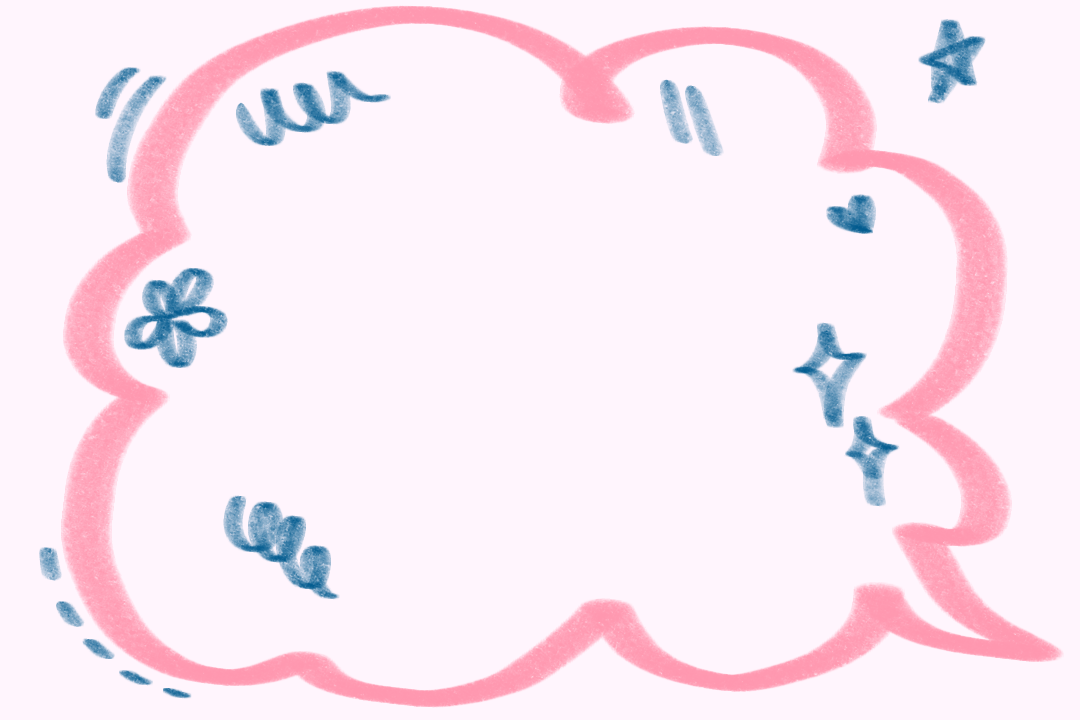
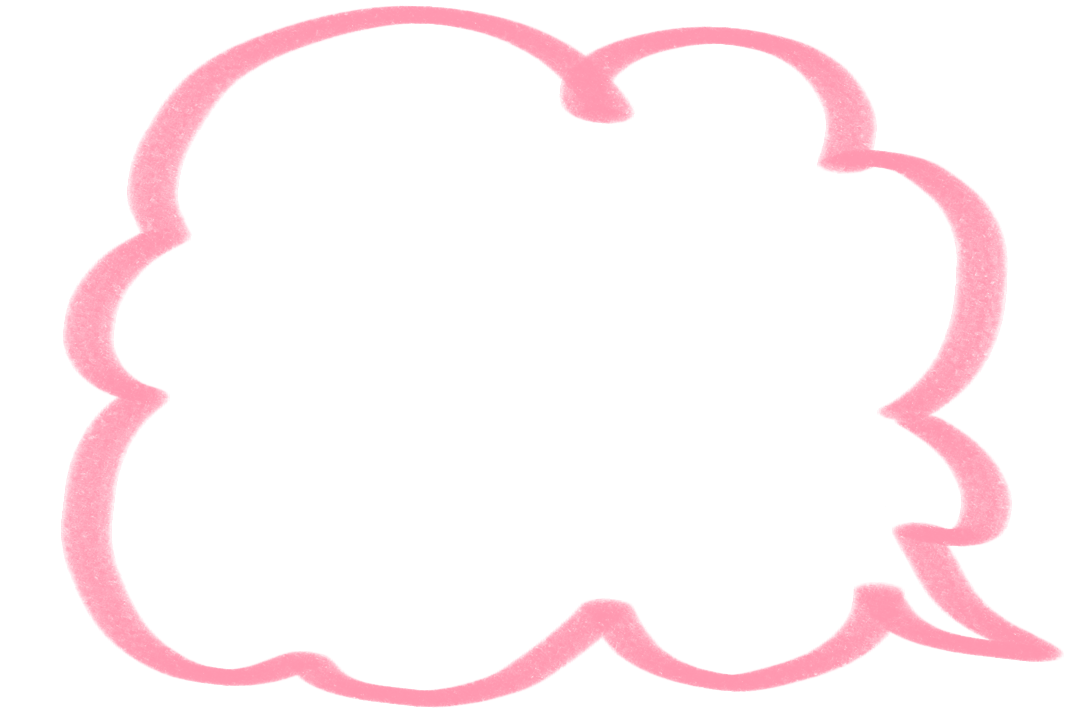
fourth commit
edit 4 files

diff --git a/src/index.css b/src/index.css
@@ -2,41 +2,93 @@
 
 /* styles */
 * {
-    margin: 0;
-    font-family: "Ruda";
-    color: #022e57;
-    background: #FFF5FD;
+  margin: 0;
+  font-family: "Ruda";
+  color: #022e57;
+  background: #FFF5FD;
+}
+body, html {
+  margin:0;
+  padding:0;
+  line-height: 1.5em;
+  height: 100%;
+  width: 100%;
+  box-sizing: border-box;
+}
+p {
+  display: block;
+  margin-block-start: 1em;
+  margin-block-end: 1em;
+  margin-inline-start: 0px;
+  margin-inline-end: 0px;
+  background-color: transparent;
+}
+.root {
+  height: inherit;
+}
+.app {
+  height: 100%;
+}
+.content {
+  margin: 40px auto;
+  height: 100%;
+  padding: 5px;
+}
+.content p {
+  margin: 10px;
+}
+.content a {
+  margin: 10px;
+}
+.bubble {
+  margin: 0;
+  padding-top: calc(15rem + 55px);
+  padding-bottom: 15rem;
+  position: relative;
+  background-image: url('bg.png');
+  background-repeat: no-repeat;
+  background-position: center center;
+  background-attachment: scroll;
+  background-size: cover;
 }
 .navbar {
-    padding: 20px;
-    display: flex;
-    align-items: center;
-    max-width: 600px;
-    margin: 0 auto;
-    border-bottom: 1px solid #f2f2f2;
-    position: -webkit-sticky;
-    position: sticky;
-  }
-  .navbar h1 {
-    color: #022e57;
-  }
-  .navbar .links {
-    margin-left: auto;
-  }
-  .navbar a {
-    margin-left: 16px;
-    text-decoration: none;
-    padding: 6px;
-  }
-  .navbar a:hover {
-    color: #022e57;
-  }
-  .footer {
-    padding: 20px;
-    display: flex;
-    position: relative;
-    align-items: center;
-    max-width: 600px;
-    margin: 0 auto;
-    border-top: 1px solid #f2f2f2;
-  }
+  padding: 20px 290px;
+  display: flex;
+  align-items: center;
+  position: fixed;
+  top: 0;
+  right: 0;
+  left: 0;
+  z-index: 1030;
+  margin: 0 auto;
+  border-bottom: 1px solid #f2f2f2;
+}
+.navbar h1 {
+  color: #022e57;
+}
+.navbar .links {
+  margin-left: auto;
+}
+.navbar a {
+  margin-left: 16px;
+  text-decoration: none;
+  padding: 6px;
+}
+.navbar a:hover {
+  color: #005A8D;
+}
+.footer {
+  padding: 20px;
+  display: flex;
+  justify-content:center;
+  align-items:center;
+  margin: 0 auto;
+  border-top: 1px solid #f2f2f2;
+  display:flex;
+  position: fixed;
+  bottom: 0;
+  left: 0;
+  right: 0;
+  height: 50px;
+  width: 100%;
+}

diff --git a/src/Footer.js b/src/Footer.js
@@ -2,7 +2,9 @@ const Footer = () => {
     return ( 
     <footer className="footer">
         <footer class="bg-light py-5">
-            <div class="container px-4 px-lg-5"><div class="small text-center text-muted">Copyright &copy; 2022 - yasczzn</div></div>
+            <div class="container px-4 px-lg-5">
+                <div class="small text-center text-muted">Copyright &copy; 2022 - yasczzn</div>
+            </div>
         </footer>
     </footer> 
     );

diff --git a/src/App.js b/src/App.js
@@ -6,7 +6,9 @@ function App() {
     <div className="App">
       <Navbar/>
       <div className="content">
-        <p>Hello _World</p>
+        <div className="bubble">
+          <p>Hello _World</p>
+        </div>
       </div>
       <Footer/>
     </div>
